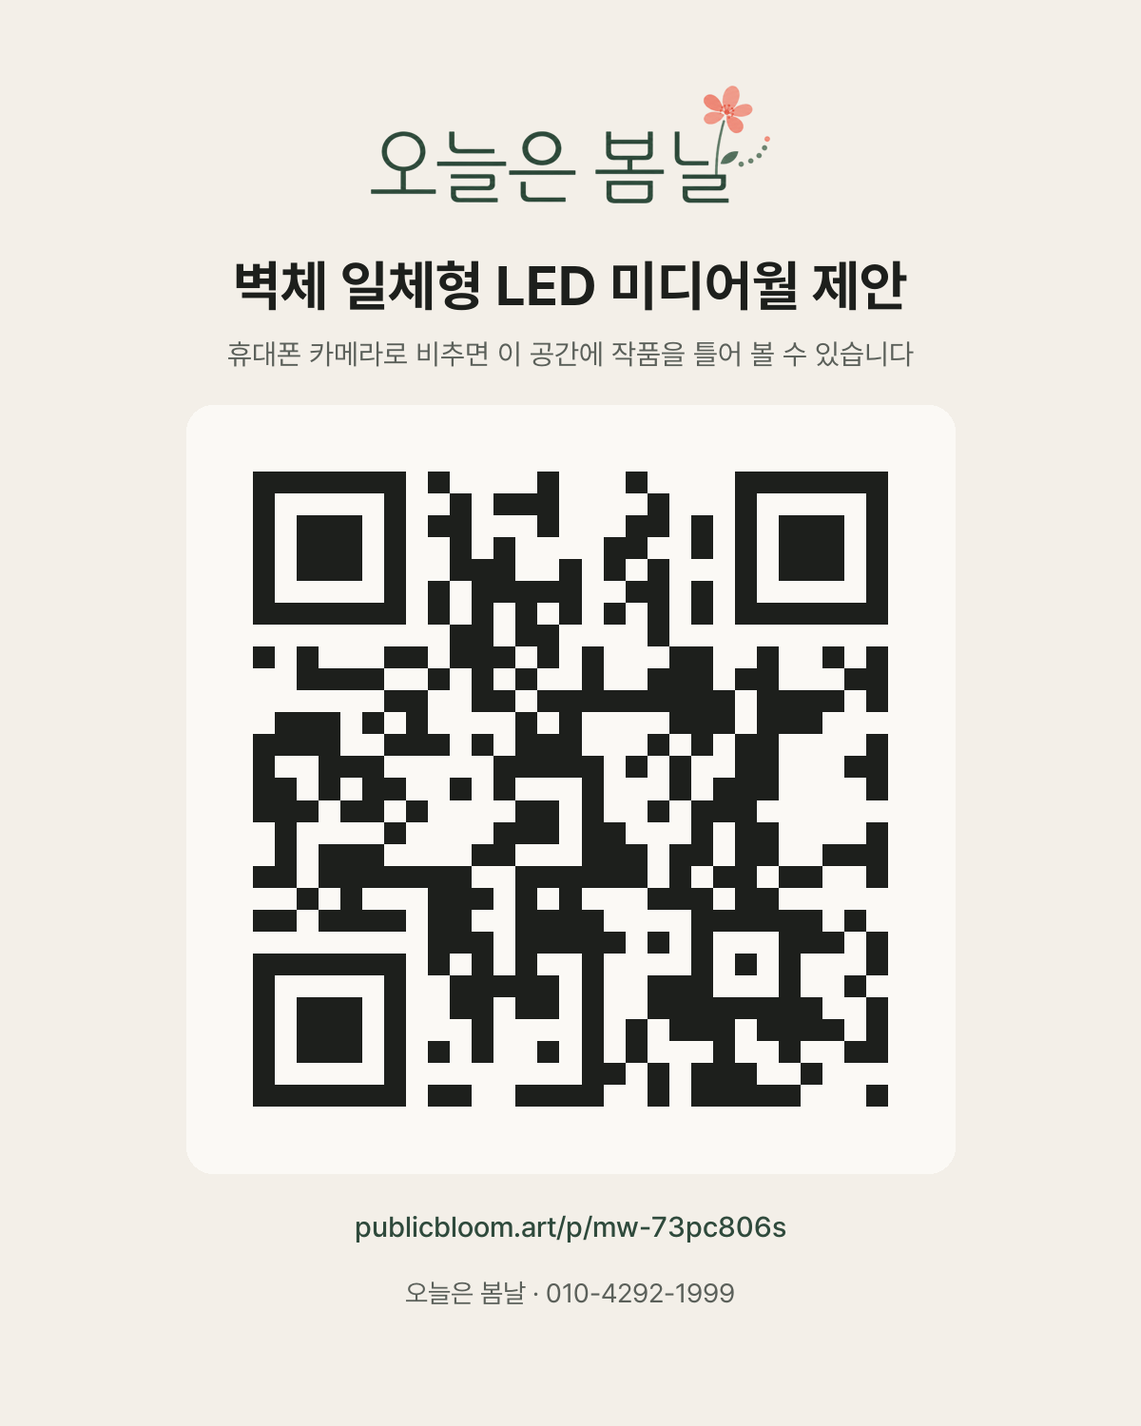
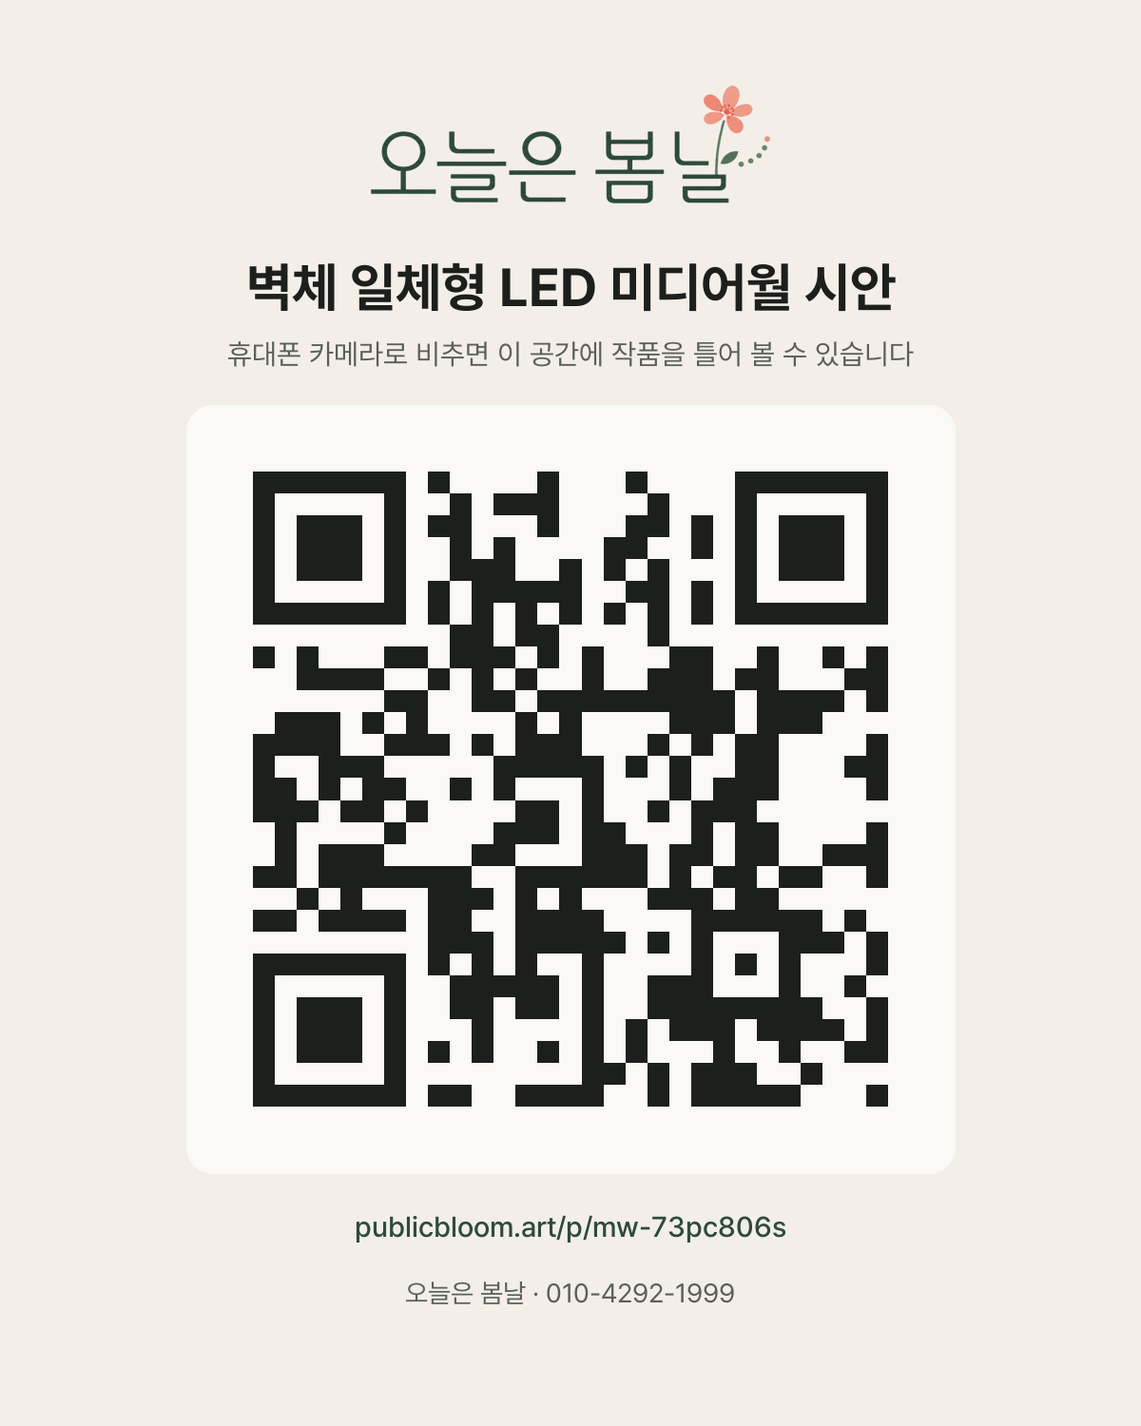
미팅 자료: C안 세로형 · 천장에서 바닥까지 (#85)
* 미팅 자료: C안 세로형 천장에서 바닥까지 추가 (B·A안은 그대로)

* 미팅 자료 C안: 화면을 천장 조명 레일 바로 아래까지 올림, 조명 기구는 화면 앞에

* 미팅 자료: '제안' 대신 '시안' (QR 카드 · 제목 · 관제 화면)

* 미팅 자료: 구미코 카드 이름 '구미코 로비 미디어아트 납품'

* 미팅 자료: 두 화면 구성을 바꾸면 차이가 보이게 (한 작품=두 면을 잇는 한 장면을 벽에 잠깐 비춤, 같은 작품=면마다 표시)

* 미팅 자료: 확정 규격 80×200cm 두 면 (실측 벽 5m · 천장고 3.3m 정중앙, 같은 간격) 합성·정면도 추가, B·C·A는 검토했던 안으로

* 미팅 자료: '확정' 대신 '실측 이후 시안'으로 표기

---------

Changed region(s): [[0.185, 0.184, 0.8017, 0.2147]]

diff --git a/p/mw-73pc806s/index.html b/p/mw-73pc806s/index.html
@@ -6,7 +6,7 @@
 <meta name="robots" content="noindex, nofollow, noarchive">
 <meta name="referrer" content="no-referrer">
 <base href="/p/mw-73pc806s/">
-<title>벽체 일체형 LED 미디어월 제안 · 오늘은 봄날</title>
+<title>벽체 일체형 LED 미디어월 시안 · 오늘은 봄날</title>
 <meta name="theme-color" content="#f3efe8">
 <link rel="icon" href="/assets/favicon-32.png">
 <link rel="stylesheet" href="https://cdn.jsdelivr.net/gh/orioncactus/pretendard@v1.3.9/dist/web/variable/pretendardvariable-dynamic-subset.css">
@@ -48,6 +48,15 @@ section+section{border-top:1px solid var(--line)}
   -webkit-mask-image:linear-gradient(180deg,rgba(0,0,0,.55),rgba(0,0,0,0) 85%);mask-image:linear-gradient(180deg,rgba(0,0,0,.55),rgba(0,0,0,0) 85%);mix-blend-mode:screen;filter:blur(6px)}
 .refl video{position:absolute;max-width:none;object-fit:cover;transform:scaleY(-1)}
 .stage.on .screen{opacity:1}
+.fixlayer{position:absolute;pointer-events:none;z-index:2}
+/* 두 화면 구성을 바꿀 때 잠깐: 한 작품이면 두 면을 잇는 한 장의 그림 테두리, 같은 작품이면 면마다 같은 표시 */
+.ghost{position:absolute;overflow:hidden;pointer-events:none;opacity:0;border:2px dashed rgba(255,255,255,.85);border-radius:4px;box-sizing:border-box}
+.ghost video{position:absolute;max-width:none;object-fit:cover;opacity:.42}
+.ghost.flash{animation:ghost 2.6s ease}
+.ghost-tag{position:absolute;left:50%;top:50%;transform:translate(-50%,-50%);z-index:3;pointer-events:none;opacity:0;white-space:nowrap;
+  background:rgba(20,32,24,.86);color:#fff;font-size:13px;font-weight:700;padding:6px 12px;border-radius:999px}
+.ghost-tag.flash{animation:ghost 2.6s ease}
+@keyframes ghost{0%{opacity:0}14%{opacity:1}72%{opacity:1}100%{opacity:0}}
 .stage.on .refl.show{opacity:.6}
 .stage .badge{position:absolute;left:14px;top:14px;background:rgba(47,74,60,.92);color:#fff;font-size:13px;font-weight:600;padding:7px 13px;border-radius:999px;letter-spacing:0.01em}
 .stage .note{position:absolute;right:12px;bottom:10px;font-size:11.5px;color:rgba(29,31,28,.6);background:rgba(251,249,245,.75);padding:3px 9px;border-radius:999px}
@@ -89,7 +98,7 @@ section+section{border-top:1px solid var(--line)}
 .theater-strip img{width:100%;height:100%;object-fit:cover}
 
 /* ── 두 가지 안 ───────────────────────── */
-.options{display:grid;grid-template-columns:1fr 1fr;gap:18px;margin-top:26px}
+.options{display:grid;grid-template-columns:repeat(3,1fr);gap:18px;margin-top:26px}
 .opt{background:var(--card);border-radius:var(--r);overflow:hidden;border:1px solid var(--line)}
 .opt img{width:100%;aspect-ratio:1672/940;object-fit:cover}
 .opt .body{padding:20px 22px 22px}
@@ -100,6 +109,19 @@ section+section{border-top:1px solid var(--line)}
 .spec dt{color:var(--ink-2)}
 .spec dd{font-weight:600;font-variant-numeric:tabular-nums}
 .opt .feel{margin-top:12px;font-size:15px;color:var(--ink-2)}
+.final{display:grid;grid-template-columns:1fr 1fr;gap:18px;margin-top:26px;align-items:start}
+.elev{margin:0;background:var(--card);border:1px solid var(--line);border-radius:var(--r);padding:18px 14px 12px}
+.elev svg{width:100%;height:auto;display:block}
+.elev .wall{fill:#f1ece4;stroke:#b9b1a5;stroke-width:1.2}
+.elev .flr{stroke:#3a3a36;stroke-width:3}
+.elev .pnl{fill:#10151c;stroke:#000;stroke-width:1}
+.elev .dim line{stroke:#8a857c;stroke-width:1}
+.elev .lbl text{font-size:15px;fill:var(--ink-2);text-anchor:middle;font-variant-numeric:tabular-nums}
+.elev .lbl .big{font-size:17px;font-weight:700;fill:var(--ink)}
+.elev .lbl .in{fill:#cfd6df;font-size:14px}
+.elev figcaption{text-align:center;font-size:13px;color:var(--ink-2);margin-top:6px}
+.sub-h{font-size:22px;letter-spacing:-0.03em;margin:4px 0 0}
+.check small{font-size:12px;color:var(--green-2);font-weight:700;margin-left:6px}
 
 /* ── 방향 ───────────────────────── */
 .dirs{display:grid;grid-template-columns:1fr 1fr;gap:18px;margin-top:22px}
@@ -137,13 +159,14 @@ footer img{height:26px;margin:0 auto 10px;opacity:.9}
 
 @media (max-width:760px){
   section{padding:42px 0}
-  .options,.dirs{grid-template-columns:1fr}
+  .options,.dirs,.final{grid-template-columns:1fr}
   .sites{grid-template-columns:1fr 1fr}
   .check{grid-template-columns:1fr 1fr}
   .refs ul{grid-template-columns:1fr}
   .stage{border-radius:10px}
   .stage .note{display:none}
-  .seg button{padding:8px 13px;font-size:14.5px}
+  .seg{flex-wrap:wrap;border-radius:20px}
+  .seg button{padding:8px 12px;font-size:14.5px}
 }
 </style>
 </head>
@@ -157,15 +180,15 @@ footer img{height:26px;margin:0 auto 10px;opacity:.9}
 <main>
 <div class="wrap hero">
   <p class="eyebrow">Interior Media Wall</p>
-  <h1>벽체 일체형 LED<br>미디어월 제안</h1>
+  <h1>벽체 일체형 LED<br>미디어월 시안</h1>
   <p class="lead">액자를 거는 게 아니라 벽 자체가 영상이 되는 방식입니다. 아래 공간 사진에서 작품을 눌러 보세요. 실제 이 벽에 틀었을 때의 느낌을 바로 볼 수 있습니다.</p>
 
   <div class="stage-box">
     <div class="stage on" id="stage">
       <div class="inner" id="inner">
-        <img class="space" id="space" src="img/space-b.jpg" alt="설치 예정 공간 합성 시안">
+        <img class="space" id="space" src="img/space-f.jpg" alt="설치 예정 공간 합성 시안">
       </div>
-      <span class="badge" id="badge">B 세로형 · 바닥 연장</span>
+      <span class="badge" id="badge">실측 이후 시안 · 80 × 200 cm 두 면 · 벽 정중앙</span>
       <span class="note">현장 사진 위 합성 시안</span>
       <button class="fs" id="fsBtn" aria-label="크게 보기"><svg viewBox="0 0 24 24" fill="none" stroke="currentColor" stroke-width="2" stroke-linecap="round"><path d="M4 9V4h5M20 9V4h-5M4 15v5h5M20 15v5h-5"/></svg></button>
       <div class="theater-strip" id="tStrip"></div>
@@ -174,7 +197,9 @@ footer img{height:26px;margin:0 auto 10px;opacity:.9}
 
     <div class="controls">
       <div class="seg" role="group" aria-label="설치 안">
-        <button data-opt="B" aria-pressed="true">B 세로형<small>추천</small></button>
+        <button data-opt="F" aria-pressed="true">실측 이후 시안<small>80×200</small></button>
+        <button data-opt="B" aria-pressed="false">B 바닥까지</button>
+        <button data-opt="C" aria-pressed="false">C 천장까지</button>
         <button data-opt="A" aria-pressed="false">A 네모형</button>
       </div>
       <div class="seg" role="group" aria-label="두 화면 구성">
@@ -190,20 +215,73 @@ footer img{height:26px;margin:0 auto 10px;opacity:.9}
 
 <section>
   <div class="wrap">
-    <p class="eyebrow">Two Options</p>
-    <h2>두 가지 안</h2>
-    <p class="lead">사진 비례로 잡은 잠정 규격입니다. 현장 스캔과 실측 뒤 제작 치수를 확정합니다.</p>
+    <p class="eyebrow">After Site Measurement</p>
+    <h2>실측 이후 시안 · 80 × 200 cm 두 면</h2>
+    <p class="lead">실측한 벽(가로 5 m · 천장고 3.3 m) 정중앙에 세로 화면 두 면을 같은 간격으로 놓습니다.</p>
+    <div class="final">
+      <figure class="elev">
+        <svg viewBox="0 0 620 450" role="img" aria-label="정면도: 벽 가로 5,000 mm, 천장고 3,300 mm, 화면 W 800 × H 2,000 mm 두 면, 간격 1,133 mm, 위아래 650 mm">
+          <rect class="wall" x="70" y="40" width="500" height="330"/>
+          <line class="flr" x1="40" y1="370" x2="600" y2="370"/>
+          <rect class="pnl" x="183.3" y="105" width="80" height="200"/>
+          <rect class="pnl" x="376.7" y="105" width="80" height="200"/>
+          <g class="dim">
+            <line x1="70" y1="398" x2="570" y2="398"/>
+            <line x1="70" y1="390" x2="70" y2="406"/><line x1="183.3" y1="390" x2="183.3" y2="406"/><line x1="263.3" y1="390" x2="263.3" y2="406"/><line x1="376.7" y1="390" x2="376.7" y2="406"/><line x1="456.7" y1="390" x2="456.7" y2="406"/><line x1="570" y1="390" x2="570" y2="406"/>
+            <line x1="70" y1="432" x2="570" y2="432"/><line x1="70" y1="425" x2="70" y2="439"/><line x1="570" y1="425" x2="570" y2="439"/>
+            <line x1="44" y1="40" x2="44" y2="370"/><line x1="37" y1="40" x2="51" y2="40"/><line x1="37" y1="370" x2="51" y2="370"/>
+            <line x1="596" y1="40" x2="596" y2="370"/><line x1="589" y1="40" x2="603" y2="40"/><line x1="589" y1="105" x2="603" y2="105"/><line x1="589" y1="305" x2="603" y2="305"/><line x1="589" y1="370" x2="603" y2="370"/>
+          </g>
+          <g class="lbl">
+            <text x="126.7" y="393">1,133</text><text x="223.3" y="393">800</text><text x="320" y="393">1,133</text><text x="416.7" y="393">800</text><text x="513.3" y="393">1,133</text>
+            <text x="320" y="447" class="big">벽 가로 5,000</text>
+            <text x="30" y="205" class="big" transform="rotate(-90 30 205)">천장고 3,300</text>
+            <text x="612" y="72.5" transform="rotate(90 612 72.5)">650</text><text x="612" y="205" transform="rotate(90 612 205)">2,000</text><text x="612" y="337.5" transform="rotate(90 612 337.5)">650</text>
+            <text x="223.3" y="210" class="in">화면 1</text><text x="416.7" y="210" class="in">화면 2</text>
+          </g>
+        </svg>
+        <figcaption>정면도 · 단위 mm</figcaption>
+      </figure>
+      <div class="opt final-card">
+        <img src="img/space-f.jpg" alt="실측 이후 시안 합성: 벽 정중앙 세로 화면 두 면" loading="lazy">
+        <div class="body">
+          <p class="k">AFTER MEASUREMENT <span class="rec">실측 이후 시안</span></p>
+          <h3>세로형 일체형 LED · 벽 정중앙 두 면</h3>
+          <dl class="spec">
+            <dt>화면 1면</dt><dd>W 800 × H 2,000 mm</dd>
+            <dt>벽 (실측)</dt><dd>가로 5,000 · 천장고 3,300 mm</dd>
+            <dt>가로 간격</dt><dd>벽 끝 – 화면 – 화면 – 벽 끝 1,133 mm씩 같게</dd>
+            <dt>세로 위치</dt><dd>바닥에서 650 mm 띄움 · 천장 아래 650 mm</dd>
+          </dl>
+          <p class="feel">벽 한가운데 반듯하게 선 두 개의 세로 화면. 위아래·좌우 여백이 고르게 남아 액자처럼 깔끔하고, 두 면을 한 작품으로 이어 틀 수 있습니다.</p>
+        </div>
+      </div>
+    </div>
+    <p class="eyebrow" style="margin-top:48px">Earlier Options</p>
+    <h3 class="sub-h">검토했던 안</h3>
     <div class="options">
       <article class="opt">
         <img src="img/space-b.jpg" alt="B안 세로형 합성 시안" loading="lazy">
         <div class="body">
-          <p class="k">OPTION B <span class="rec">추천</span></p>
+          <p class="k">OPTION B</p>
           <h3>세로형 일체형 LED · 바닥 연장</h3>
           <dl class="spec">
             <dt>1면 예상 크기</dt><dd>W 800–900 × H 2,350–2,450 mm</dd>
             <dt>권장 초안</dt><dd>W 850 × H 2,400 mm</dd>
           </dl>
           <p class="feel">수직감 · 작품성. 바닥까지 이어져 공간의 높이를 강조합니다.</p>
+        </div>
+      </article>
+      <article class="opt">
+        <img src="img/space-c.jpg" alt="C안 세로형 천장에서 바닥까지 합성 시안" loading="lazy">
+        <div class="body">
+          <p class="k">OPTION C</p>
+          <h3>세로형 일체형 LED · 천장에서 바닥까지</h3>
+          <dl class="spec">
+            <dt>1면 예상 크기</dt><dd>W 800–900 × H 2,750–2,900 mm</dd>
+            <dt>기준</dt><dd>천장고 실측 뒤 확정</dd>
+          </dl>
+          <p class="feel">가장 강한 수직감. 천장 조명 레일 바로 아래에서 바닥까지, 벽 한 줄이 통째로 화면이 됩니다.</p>
         </div>
       </article>
       <article class="opt">
@@ -228,9 +306,9 @@ footer img{height:26px;margin:0 auto 10px;opacity:.9}
     <h2>액자가 아니라, 벽 자체가 영상이 되는 방식</h2>
     <div class="dirs">
       <div class="dir"><p class="n">01 · FRAMELESS</p><h3>테두리와 배선을 감춘 벽체 매립</h3><p>화면 테두리와 전선이 보이지 않게 벽 마감면 안으로 넣습니다.</p></div>
-      <div class="dir"><p class="n">02 · FLOOR-LENGTH</p><h3>바닥까지 이어지는 세로 비례</h3><p>바닥에서 시작하는 세로 화면으로 공간의 높이와 깊이를 살립니다.</p></div>
+      <div class="dir"><p class="n">02 · CENTERED</p><h3>벽 정중앙, 고른 여백의 세로 비례</h3><p>벽 5 m를 같은 간격으로 나눠 두 화면이 벽 한가운데 반듯하게 섭니다. 위아래 여백도 같게 둡니다.</p></div>
     </div>
-    <p class="core"><b>제안 핵심</b> — TV를 벽에 거는 방식이 아니라, LED 모듈과 마감면을 하나의 건축 요소로 계획합니다.</p>
+    <p class="core"><b>시안 핵심</b> — TV를 벽에 거는 방식이 아니라, LED 모듈과 마감면을 하나의 건축 요소로 계획합니다.</p>
   </div>
 </section>
 
@@ -240,7 +318,7 @@ footer img{height:26px;margin:0 auto 10px;opacity:.9}
     <h2>오늘은 봄날이 직접 만든 현장</h2>
     <p class="lead">작품을 만들고, 화면을 세우고, 현장에서 틀기까지 한 팀이 합니다.</p>
     <div class="sites">
-      <figure class="site"><img src="/assets/works/gumico-lobby-led-wide.webp" alt="구미코 로비 LED" loading="lazy"><p>구미코 로비 LED<span>에스컬레이터 위 실내 LED</span></p></figure>
+      <figure class="site"><img src="/assets/works/gumico-lobby-led-wide.webp" alt="구미코 로비 미디어아트 납품" loading="lazy"><p>구미코 로비 미디어아트 납품<span>에스컬레이터 위 실내 LED</span></p></figure>
       <figure class="site"><img src="/assets/works/led-wall-6-stand.webp" alt="스탠드형 LED 6장 연결" loading="lazy"><p>스탠드형 LED 6장 연결<span>로비 설치 · 렌탈</span></p></figure>
       <figure class="site"><img src="/assets/works/daegu-student-center.webp" alt="대구학생문화센터 로비 LED 월" loading="lazy"><p>대구학생문화센터 로비 LED 월<span>제너러티브 미디어아트 상영</span></p></figure>
       <figure class="site"><img src="/assets/works/gumi-summer-night.webp" alt="구미 썸머나잇 페스티벌 미디어파사드" loading="lazy"><p>구미 썸머나잇 페스티벌<span>건물 외벽 미디어파사드</span></p></figure>
@@ -264,13 +342,13 @@ footer img{height:26px;margin:0 auto 10px;opacity:.9}
     <p class="eyebrow">Next Step</p>
     <h2>현장 스캔 때 함께 확인할 것</h2>
     <ol class="check">
-      <li>천장고</li>
-      <li>각 설치면 가로폭</li>
-      <li>화면 상단 기준고</li>
+      <li>천장고 3,300 mm <small>실측 완료</small></li>
+      <li>벽 가로 5,000 mm <small>실측 완료</small></li>
+      <li>벽 매립 깊이 · 마감 방식</li>
       <li>전원 · 통신 위치</li>
       <li>점검구 · 유지보수 동선</li>
     </ol>
-    <p class="fine">※ 현재 규격은 사진 비례 추정치이며, 스캔 데이터와 실측값을 기준으로 제작 치수를 확정합니다.</p>
+    <p class="fine">※ 화면 크기(W 800 × H 2,000 mm)와 배치는 실측값(벽 가로 5 m · 천장고 3.3 m)을 반영한 시안입니다. 위 사진은 현장 사진 위 합성 시안이며, 전원 · 통신 위치와 매립 깊이는 현장 확인 뒤 정합니다.</p>
   </div>
 </section>
 
@@ -299,27 +377,59 @@ footer img{height:26px;margin:0 auto 10px;opacity:.9}
   // 작품 목록 (media/ 안의 720×720 정사각 루프)
   // 작품 목록: works.js (tools/make-meet-media.py 가 만든다). media/ 안의 540×540 정사각 루프
   const M = window.MEET_WORKS;
-  const ORIG = { id: "orig", name: "제안 시안", sub: "처음 보여 드린 물결" };
+  const ORIG = { id: "orig", name: "기본 시안", sub: "처음 보여 드린 물결" };
   let cat = "code";
   // 화면 자리 (사진 1672×940 픽셀): [x0, y0, x1, y1]
   const IMG = { w: 1672, h: 940 };
   const OPTS = {
+    // 실측 이후 시안: 실측 벽 가로 5,000 · 천장고 3,300 mm 에 W 800 × H 2,000 mm 두 면, 간격 1,133 mm 씩 같게 · 위아래 650 mm (사진 벽 x 223–1252, 천장 y 85, 바닥 y 804)
+    F: { img: "img/space-f.jpg", badge: "실측 이후 시안 · 80 × 200 cm 두 면 · 벽 정중앙", screens: [[456, 227, 621, 662], [854, 227, 1019, 662]], floor: null, refl: false },
     B: { img: "img/space-b.jpg", clean: "img/space-b-clean.jpg", badge: "B 세로형 · 바닥 연장", screens: [[408, 166, 623, 805], [895, 166, 1100, 805]], floor: 805, refl: true },
+    C: { img: "img/space-c.jpg", clean: "img/space-c-clean.jpg", badge: "C 세로형 · 천장에서 바닥까지", screens: [[408, 56, 623, 805], [895, 56, 1100, 805]], floor: 805, refl: true, fix: [400, 50, 1110, 85] },
     A: { img: "img/space-a.jpg", badge: "A 네모형", screens: [[387, 254, 683, 529], [878, 252, 1160, 529]], floor: null, refl: false },
   };
   const $ = (s, r = document) => r.querySelector(s);
   const stage = $("#stage"), inner = $("#inner"), space = $("#space"), badge = $("#badge");
-  let opt = "B", mode = "span", work = "caustics";
+  let opt = "F", mode = "span", work = "caustics";
   let nodes = [];
 
   const pct = (v, total) => (v / total * 100) + "%";
 
-  function build() {
+  function build(flash) {
     nodes.forEach((n) => n.remove()); nodes = [];
     const o = OPTS[opt];
     badge.textContent = o.badge;
     const xs = o.screens.map((s) => s[0]), xe = o.screens.map((s) => s[2]);
     const bb = [Math.min(...xs), Math.min(...o.screens.map((s) => s[1])), Math.max(...xe), Math.max(...o.screens.map((s) => s[3]))];
+    // 천장 조명 기구는 화면보다 앞에 있다 (C안: 화면이 레일 바로 아래까지 올라간다)
+    if (o.fix) {
+      const f = document.createElement("img");
+      f.src = "img/space-c-fix.png"; f.alt = ""; f.className = "fixlayer";
+      Object.assign(f.style, { left: pct(o.fix[0], IMG.w), top: pct(o.fix[1], IMG.h), width: pct(o.fix[2] - o.fix[0], IMG.w), height: pct(o.fix[3] - o.fix[1], IMG.h) });
+      inner.appendChild(f); nodes.push(f);
+    }
+    if (flash) {
+      // 한 작품: 두 면을 아우르는 한 장의 그림을 벽 위에 잠깐 비춰 '이어진 한 장면'임을 보여 준다
+      const boxes = mode === "span" ? [bb] : o.screens;
+      boxes.forEach((a) => {
+        const g = document.createElement("div"); g.className = "ghost flash";
+        Object.assign(g.style, { left: pct(a[0], IMG.w), top: pct(a[1], IMG.h), width: pct(a[2] - a[0], IMG.w), height: pct(a[3] - a[1], IMG.h) });
+        if (mode === "span") {
+          const aw = a[2] - a[0], ah = a[3] - a[1], side = Math.max(aw, ah);
+          const v = document.createElement("video");
+          Object.assign(v, { muted: true, loop: true, playsInline: true, autoplay: true, preload: "auto" });
+          v.setAttribute("muted", ""); v.setAttribute("playsinline", "");
+          Object.assign(v.style, { left: ((aw - side) / 2 / aw * 100) + "%", top: ((ah - side) / 2 / ah * 100) + "%", width: (side / aw * 100) + "%", height: (side / ah * 100) + "%" });
+          g.appendChild(v);
+        }
+        g.addEventListener("animationend", () => g.remove());
+        inner.appendChild(g); nodes.push(g);
+      });
+      const t = document.createElement("span"); t.className = "ghost-tag flash";
+      t.textContent = mode === "span" ? "한 장면이 두 면에 이어집니다" : "두 면에 같은 장면";
+      t.addEventListener("animationend", () => t.remove());
+      inner.appendChild(t); nodes.push(t);
+    }
     o.screens.forEach((s, i) => {
       const [x0, y0, x1, y1] = s, w = x1 - x0, h = y1 - y0;
       // 화면 안 영상 자리: "한 작품" 이면 두 화면을 아우르는 상자에 하나의 그림으로, 아니면 화면마다 꽉 차게
@@ -356,7 +466,7 @@ footer img{height:26px;margin:0 auto 10px;opacity:.9}
     const want = on && o.clean ? o.clean : o.img;
     if (!space.src.endsWith(want)) space.src = want;
     stage.classList.toggle("on", on);
-    const vids = nodes.map((n) => n.querySelector("video"));
+    const vids = nodes.map((n) => n.querySelector("video")).filter(Boolean);
     if (on) {
       const src = "media/" + id + ".mp4";
       vids.forEach((v) => { if (!v.src.endsWith(src)) { v.src = src; v.poster = "media/" + id + ".jpg"; } });
@@ -370,8 +480,8 @@ footer img{height:26px;margin:0 auto 10px;opacity:.9}
 
   // 작품 갈래 · 버튼
   const strip = $("#works"), tStrip = $("#tStrip"), cats = $("#cats");
-  const thumbOf = (w) => (w.id === "orig" ? "img/space-b.jpg" : "media/" + w.id + ".jpg");
-  const pos = (w) => (w.id === "orig" ? 'style="object-position:30% 50%"' : "");
+  const thumbOf = (w) => (w.id === "orig" ? "img/space-f.jpg" : "media/" + w.id + ".jpg");
+  const pos = (w) => (w.id === "orig" ? 'style="object-position:32% 50%"' : "");
   function renderList() {
     strip.innerHTML = ""; tStrip.innerHTML = "";
     [ORIG, ...M.works.filter((w) => w.cat === cat)].forEach((w) => {
@@ -407,7 +517,7 @@ footer img{height:26px;margin:0 auto 10px;opacity:.9}
   document.querySelectorAll("[data-mode]").forEach((b) => b.onclick = () => {
     mode = b.dataset.mode;
     document.querySelectorAll("[data-mode]").forEach((x) => x.setAttribute("aria-pressed", String(x === b)));
-    build();
+    build(true);
   });
 
   // 크게 보기: 되면 진짜 전체화면, 아이폰처럼 안 되면 화면을 덮는다

diff --git a/admin.html b/admin.html
@@ -62,13 +62,13 @@
           <article class="meet-item">
             <a href="/p/mw-73pc806s" target="_blank" rel="noopener"><img class="th" src="/p/mw-73pc806s/img/space-b-clean.jpg" alt="" loading="lazy"></a>
             <div>
-              <h3>벽체 일체형 LED 미디어월 제안</h3>
+              <h3>벽체 일체형 LED 미디어월 시안</h3>
               <p>2026-11-05 작성 · 학교 미팅용 · B 세로형(추천)/A 네모형 · 현장 합성 위에 작품 10편 틀어 보기 · 소개 영상 2분</p>
               <p><code>https://publicbloom.art/p/mw-73pc806s</code></p>
               <div class="fleet-actions">
                 <a class="fleet-btn primary" href="/p/mw-73pc806s" target="_blank" rel="noopener">열기</a>
                 <button type="button" class="fleet-btn" data-copy="https://publicbloom.art/p/mw-73pc806s">링크 복사</button>
-                <a class="fleet-btn" href="/p/mw-73pc806s/img/qr-card.png" download="QR카드_미디어월_제안.png">QR 카드 받기</a>
+                <a class="fleet-btn" href="/p/mw-73pc806s/img/qr-card.png" download="QR카드_미디어월_시안.png">QR 카드 받기</a>
                 <a class="fleet-btn" href="/p/mw-73pc806s/media/promo.mp4" target="_blank" rel="noopener">소개 영상 2분</a>
               </div>
             </div>
